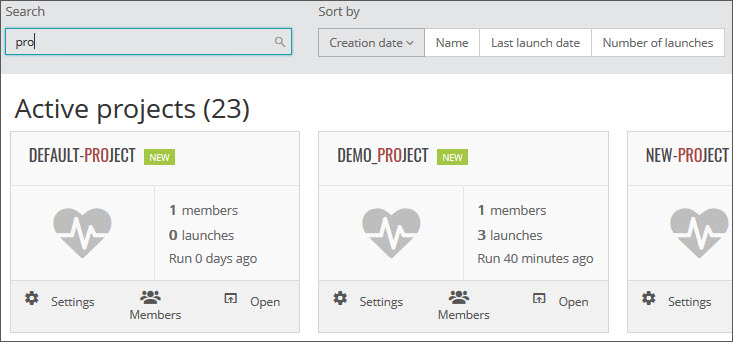
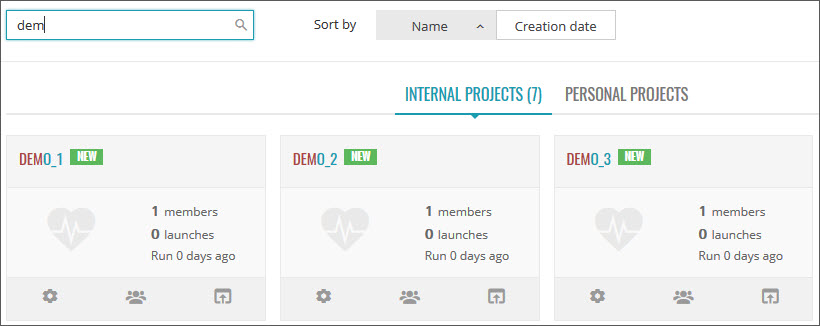
update documentation

diff --git a/compiled/documentation.html b/compiled/documentation.html
@@ -38,7 +38,7 @@ cutting edge technologies:</p>
 <p>Deploy mongodb. </p>
 <p><strong>STEP-4</strong></p>
 <p>Deploy ReportPortal using docker-compose. 
-Example of compose descriptor can be found here: <a href="https://github.com/reportportal/reportportal/blob/master/docker-compose.yml"><a href="https://github.com/reportportal/reportportal/blob/master/docker-compose.yml">https://github.com/reportportal/reportportal/blob/master/docker-compose.yml</a></a></p>
+Example of compose descriptor can be found <a href="https://github.com/reportportal/reportportal/blob/master/docker-compose.yml">here</a></p>
 <p><strong>ReportPortal consists of the following services:</strong></p>
 <ul>
 <li>Redis. Used for distributed cache.</li>
@@ -57,45 +57,35 @@ Example of compose descriptor can be found here: <a href="https://github.com/rep
 <p>Add to POM.xml</p>
 <p><strong>dependency</strong></p>
 <pre><code>&lt;repositories&gt;
- &lt;repository&gt;
-  &lt;id&gt;artifactory.epam.com&lt;/id&gt;
-  &lt;name&gt;artifactory.epam.com-releases&lt;/name&gt;
-  &lt;url&gt;http://artifactory.epam.com/artifactory/EPMC-TST&lt;/url&gt;
-  &lt;snapshots&gt;
-   &lt;enabled&gt;false&lt;/enabled&gt;
-  &lt;/snapshots&gt;
- &lt;/repository&gt;
+     &lt;repository&gt;
+        &lt;snapshots&gt;
+          &lt;enabled&gt;false&lt;/enabled&gt;
+        &lt;/snapshots&gt;
+        &lt;id&gt;bintray-epam-reportportal&lt;/id&gt;
+        &lt;name&gt;bintray&lt;/name&gt;
+        &lt;url&gt;http://dl.bintray.com/epam/reportportal&lt;/url&gt;
+     &lt;/repository&gt;
 &lt;/repositories&gt;
 
 
 
- &lt;dependency&gt;
-  &lt;groupId&gt;com.epam.ta.reportportal&lt;/groupId&gt;
-  &lt;artifactId&gt;reportportal-client&lt;/artifactId&gt;
-  &lt;version&gt;2.1.12&lt;/version&gt;
- &lt;/dependency&gt;   
- &lt;dependency&gt;
-  &lt;groupId&gt;com.epam.ta.reportportal&lt;/groupId&gt;
-  &lt;artifactId&gt;reportportal-log4j-integration&lt;/artifactId&gt;
-  &lt;version&gt;2.5.0&lt;/version&gt;
- &lt;/dependency&gt;</code></pre>
-<p>To access a Maven repository which uses basic authentication you should create or update ${user.home}/.m2/settings.xml with the following content:</p>
-<p><strong>settings.xml</strong></p>
-<pre><code>&lt;settings xmlns=&quot;http://maven.apache.org/SETTINGS/1.0.0&quot;
-  xmlns:xsi=&quot;http://www.w3.org/2001/XMLSchema-instance&quot;
-  xsi:schemaLocation=&quot;http://maven.apache.org/SETTINGS/1.0.0
-                      https://maven.apache.org/xsd/settings-1.0.0.xsd&quot;&gt;
-  &lt;servers&gt;
-    &lt;server&gt;
-      &lt;id&gt;artifactory.epam.com&lt;/id&gt;
-      &lt;username&gt;epmc-tst-shared&lt;/username&gt;
-      &lt;password&gt;epmc-tst-shared2016&lt;/password&gt;
-    &lt;/server&gt;
-  &lt;/servers&gt;
-&lt;/settings&gt;</code></pre>
+&lt;dependency&gt;
+  &lt;groupId&gt;com.epam.reportportal&lt;/groupId&gt;
+  &lt;artifactId&gt;agent-java-testng&lt;/artifactId&gt;
+  &lt;version&gt;2.6.0&lt;/version&gt;
+&lt;/dependency&gt;
+&lt;dependency&gt;
+  &lt;groupId&gt;com.epam.reportportal&lt;/groupId&gt;
+  &lt;artifactId&gt;logger-java-logback&lt;/artifactId&gt;
+  &lt;version&gt;2.6.0&lt;/version&gt;
+&lt;/dependency&gt;
+&lt;dependency&gt;
+  &lt;groupId&gt;com.epam.reportportal&lt;/groupId&gt;
+  &lt;artifactId&gt;logger-java-log4j&lt;/artifactId&gt;
+  &lt;version&gt;2.6.0&lt;/version&gt;
+&lt;/dependency&gt;</code></pre>
 <h3 id="install-listener">Install listener</h3>
-<p>Download package <a href="https://bintray.com/epam/reportportal/agent-java-testng">here (EPAM Maven
-repository)</a>.
+<p>Download package <a href="https://bintray.com/epam/reportportal/agent-java-testng">here</a>.
 Choose latest version.</p>
 <p>By default, TestNG attaches a few basic listeners to generate HTML and XML
 reports. For reporting TestNG test events (ie start of test, successful finish
@@ -139,7 +129,7 @@ to report portal user should add report portal listener to “Listener” proper
             &lt;/property&gt;
             &lt;property&gt;
               &lt;name&gt;listener&lt;/name&gt;
-              &lt;value&gt;com.epam.ta.reportportal.listeners.testng.ReportPortalTestNGListener&lt;/value&gt;
+              &lt;value&gt;com.epam.reportportal.testng.ReportPortalTestNGListener&lt;/value&gt;
             &lt;/property&gt;
           &lt;/properties&gt;
         &lt;/configuration&gt;
@@ -156,7 +146,7 @@ to report portal user should add report portal listener to “Listener” proper
 
   &lt;listeners&gt;
     &lt;listener class-name=&quot;com.example.MyListener&quot; /&gt;
-    &lt;listener class-name=&quot;com.epam.ta.reportportal.listeners.testng.ReportPortalTestNGListener&quot; /&gt;
+    &lt;listener class-name=&quot;com.epam.reportportal.testng.ReportPortalTestNGListener&quot; /&gt;
   &lt;/listeners&gt;
 .....</code></pre>
 <p><strong>Custom runner</strong></p>
@@ -199,7 +189,7 @@ Specifying listeners with ServiceLoader.</p>
 <p>In order to start using of agent, user should configure property file
 &quot;reportportal.properties&quot; in such format:</p>
 <p><strong>reportportal.properties</strong></p>
-<pre><code>rp.endpoint = https://rp.epam.com/reportportal-ws
+<pre><code>rp.endpoint = https://rp.epam.com/
 rp.username = default
 rp.uuid = 8967de3b-fec7-47bb-9dbc-2aa4ceab8b1e
 
@@ -322,7 +312,6 @@ user can create his own “reportportal.properties” file and put in class path
 <ul>
 <li>Use system variables</li>
 </ul>
-<p>Read <a href="https://kb.epam.com/display/EPMRPP/Report+Portal+Jenkins+plugin">here</a> how to do it by Jenkins.</p>
 <p><strong>Parameters loading order</strong></p>
 <p>Client loads properties in the next order. Every next level overrides previous:</p>
 <p>a.  Properties file. Client loads all known to him properties (specified in the
@@ -479,7 +468,7 @@ configuration in pom.xml.</p>
       &lt;properties&gt;
          &lt;property&gt;
             &lt;name&gt;listener&lt;/name&gt;
-            &lt;value&gt;com.epam.ta.reportportal.listeners.junit.ReportPortalListener&lt;/value&gt;
+            &lt;value&gt;com.epam.reportportal.junit.ReportPortalListener&lt;/value&gt;
          &lt;/property&gt;
       &lt;/properties&gt;
    &lt;/configuration&gt;
@@ -490,7 +479,7 @@ configuration in pom.xml.</p>
 <li>Via \@RunWith annotation</li>
 </ul>
 <p>Usage</p>
-<pre><code>@RunWith(com.epam.ta.reportportal.listeners.junit.CustomJUnitRunner.class)</code></pre>
+<pre><code>@RunWith(com.epam.reportportal.junit.CustomJUnitRunner.class)</code></pre>
 <ul>
 <li>Via Suite class extension</li>
 </ul>
@@ -501,7 +490,7 @@ import org.junit.internal.runners.InitializationError;
 import org.junit.runner.Runner;
 import org.junit.runners.Suite;
 import org.junit.runners.model.RunnerBuilder;
-import com.epam.ta.reportportal.listeners.junit.CustomJUnitRunner;
+import com.epam.reportportal.junit.CustomJUnitRunner;
 
 public class MySuite extends Suite {
    private static Class&lt;?&gt;[] getAnnotatedClasses(Class&lt;?&gt; klass) throws InitializationError {
@@ -532,8 +521,8 @@ public class MySuite extends Suite {
 <h3 id="configuration">Configuration</h3>
 <p>In order to start using of agent, user should configure property file
 “reportportal.properties” in such format.</p>
-<pre><code>com.epam.ta.reportportal.ws.username=user_name
-com.epam.ta.reportportal.ws.password=user_token</code></pre>
+<pre><code>rp.username=user_name
+rp.uuid=user_token</code></pre>
 <h4 id="parameters">Parameters</h4>
 <p>User should provide next parameters to agent.</p>
 <table>
@@ -985,14 +974,14 @@ And remove the below jars from <em>/lib</em> directory because old versions:</p>
 Keystore for access to RP is available <a href="#user-profile">here</a>. Please place it under ${SOAPUI-HOME}/bin</p>
 <p><strong>Option 2: via Maven Plugin in external automation</strong></p>
 <p>Add following repository to your pom.xml.</p>
-<pre><code>&lt;repository&gt;
-    &lt;id&gt;artifactory.epam.com&lt;/id&gt;
-    &lt;name&gt;artifactory.epam.com-releases&lt;/name&gt;
-    &lt;url&gt;http://artifactory.epam.com/artifactory/EPMC-TST&lt;/url&gt;
-    &lt;snapshots&gt;
-        &lt;enabled&gt;false&lt;/enabled&gt;
-    &lt;/snapshots&gt;
-&lt;/repository&gt;</code></pre>
+<pre><code>     &lt;repository&gt;
+        &lt;snapshots&gt;
+          &lt;enabled&gt;false&lt;/enabled&gt;
+        &lt;/snapshots&gt;
+        &lt;id&gt;bintray-epam-reportportal&lt;/id&gt;
+        &lt;name&gt;bintray&lt;/name&gt;
+        &lt;url&gt;http://dl.bintray.com/epam/reportportal&lt;/url&gt;
+     &lt;/repository&gt;</code></pre>
 <p>And dependency (please check latest available version under specified artifactory and use it instead provided):</p>
 <pre><code>&lt;dependency&gt;
    &lt;groupId&gt;com.epam.ta.reportportal&lt;/groupId&gt;
@@ -1823,7 +1812,6 @@ is set to one of these four values.</p>
 </table>
 <p><strong>Note:</strong><br>Invite user, Assign/Unassign internal user to/from the project, change user&#39;s role on a project actions can be done for a user with similar and lower role only.</p>
 <h2 id="managing-projects">Managing projects</h2>
-<h3 id="projects-overview">Projects overview</h3>
 <p>Users with the Administrator role have access to the Report Portal
 administration, called Management Board.</p>
 <p>In Management Board you can:</p>
@@ -1838,16 +1826,9 @@ projects.</p>
 <p>To go to the Management Board page, click the username drop-down in the
 right header of the page and select the &quot;Administrate&quot; option.</p>
 <p><a href="Images/pic_10.jpg"> <img src="Images/pic_10.jpg" alt="Image"> </a></p>
-<p>All existing projects are displayed on the &quot;Projects&quot; tab. Projects are
-divided into 3 sections: ACTIVE PROJECTS, NOT ACTIVE PROJECTS and PERSONAL PROJECTS.</p>
-<p>ACTIVE PROJECTS section includes:</p>
-<ul>
-<li>Projects with at least 1 launch. </li>
-<li>New projects with the creation date within the last 7 days, marked with the &quot;New&quot; badge. </li>
-</ul>
+<p>All existing projects are displayed on the &quot;Projects&quot; page. Projects are
+divided into 2 sections: &quot;Internal Projects&quot; and &quot;Personal Projects&quot;.</p>
 <p><a href="Images/pic_11.jpg"> <img src="Images/pic_11.jpg" alt="Image"> </a></p>
-<p>NOT ACTIVE PROJECTS section includes projects with no launches. </p>
-<p>PERSONAL PROJECTS section includes users&#39; personal projects.</p>
 <p>For each project, the following information is displayed:</p>
 <ul>
 <li>Project name - the link to the detailed project information</li>
@@ -1862,10 +1843,9 @@ divided into 3 sections: ACTIVE PROJECTS, NOT ACTIVE PROJECTS and PERSONAL PROJE
   project).</li>
 </ul>
 <p><strong>Projects Navigation – Sorting and Search</strong></p>
-<p>By default, projects are sorted by the creation date.</p>
+<p>By default, projects are sorted by the name.</p>
 <p>You can sort projects using the buttons from the &quot;Sort by&quot; section at the top.
-The sorting can be performed by: Creation date, Name, Last launch date, Number
-of launches.</p>
+The sorting can be performed by: Creation date, Name.</p>
 <p>To find a project quickly, type 3 or more symbols of the project name into the
 &quot;Search&quot; field.</p>
 <p><a href="Images/pic_12.jpg"> <img src="Images/pic_12.jpg" alt="Image"> </a></p>
@@ -1948,7 +1928,7 @@ System&quot;, &quot;Defect types&quot; and &quot;Test Data&quot;.</p>
 <p>For more information refer to the &quot;Integration with Bug Tracking Systems&quot;
 topic.</p>
 <p>The &quot;Defect types&quot; tab allows create custom defect types as subtypes of default defects on the project.</p>
-<p><a href="Images/pic_18.jpg"> <img src="Images/pic_18.jpg" alt="Image"> </a></p>
+<p><a href="Images/pic_255.jpg"> <img src="Images/pic_255.jpg" alt="Image"> </a></p>
 <p>For more information refer to the &quot;Create custom defect types&quot; topic.</p>
 <p>The &quot;Demo Data&quot; tab allows generate demo data on the project.</p>
 <p><a href="Images/pic_254.jpg"> <img src="Images/pic_254.jpg" alt="Image"> </a></p>
@@ -2097,7 +2077,7 @@ Board:</p>
 <li><p><a href="Images/pic_45.jpg"> <img src="Images/pic_45.jpg" alt="Image"> </a></p>
 </li>
 <li><p>Fill in the form and click &quot;Add&quot; button. A new user will be added to
- the system and assigned to the selected project, and to &quot;DEFAULT_PROJECT&quot; with the MEMBER project role. Message with authorization data will be sent to the user&#39;s email.</p>
+ the system and assigned to the selected project, and to &quot;Personal Project&quot; with the PROJECT MANAGER project role. Message with authorization data will be sent to the user&#39;s email.</p>
 </li>
 </ol>
 <p><strong>Note:</strong><br>This is the only place in the system where an Administrator can be created
@@ -2122,7 +2102,7 @@ steps:</p>
 <li><p><a href="Images/pic_47.jpg"> <img src="Images/pic_47.jpg" alt="Image"> </a></p>
 </li>
 <li><p>Fill in the form and click &quot;Add&quot; button. A new user will be added
- to the system and assigned to the current project, and to &quot;DEFAULT_PROJECT&quot; with the MEMBER project role. Message with authorization data will be sent to the user&#39;s email.</p>
+ to the system and assigned to the current project, and to &quot;Personal Project&quot; with the PROJECT MANAGER project role. Message with authorization data will be sent to the user&#39;s email.</p>
 </li>
 </ol>
 <h3 id="invite-users">Invite users</h3>
@@ -2160,7 +2140,7 @@ but not more than 24 hours. When the user clicks the link, he/she will see a reg
 <li><p><a href="Images/pic_51.jpg"> <img src="Images/pic_51.jpg" alt="Image"> </a></p>
 </li>
 <li><p>The user needs to fill in the registration form and click the &quot;Register&quot; button to complete the registration. 
-The user will be assigned to the project that was specified by you during the invitation, and &quot;DEFAULT_PROJECT&quot; with the MEMBER project role. </p>
+The user will be assigned to the project that was specified by you during the invitation, and to &quot;Personal Project&quot; with the PROJECT MANAGER project role. </p>
 </li>
 </ol>
 <h4 id="invite-user-on-project-members-page-in-management-board">Invite user on project &quot;Members&quot; page in Management Board</h4>
@@ -2194,8 +2174,7 @@ but not more than 24 hours. When the user clicks the link, he/she will see a reg
 <li><p>The user needs to fill in the registration form and click the &quot;Register&quot;
 button to complete the registration. </p>
 </li>
-<li><p>The user will be assigned to the project that invitation was sent from, and to
-&quot;DEFAULT_PROJECT&quot; with the MEMBER project role. </p>
+<li><p>The user will be assigned to the project that invitation was sent from, and to &quot;Personal Project&quot; with the PROJECT MANAGER project role. </p>
 </li>
 </ol>
 <h4 id="invite-user-on-project-members-page-in-report-portal">Invite user on project &quot;Members&quot; page in Report Portal</h4>
@@ -2228,8 +2207,7 @@ but not more than 24 hours. When the user clicks the link, he/she will see a reg
 <li><p>The user needs to fill in the registration form and click the &quot;Register&quot;
 button to complete the registration.</p>
 </li>
-<li><p>The user will be assigned to the current project, and to &quot;DEFAULT_PROJECT&quot;
-with the MEMBER project role. </p>
+<li><p>The user will be assigned to the current project, and to &quot;Personal Project&quot; with the PROJECT MANAGER project role. </p>
 </li>
 </ol>
 <h3 id="delete-user">Delete user</h3>
